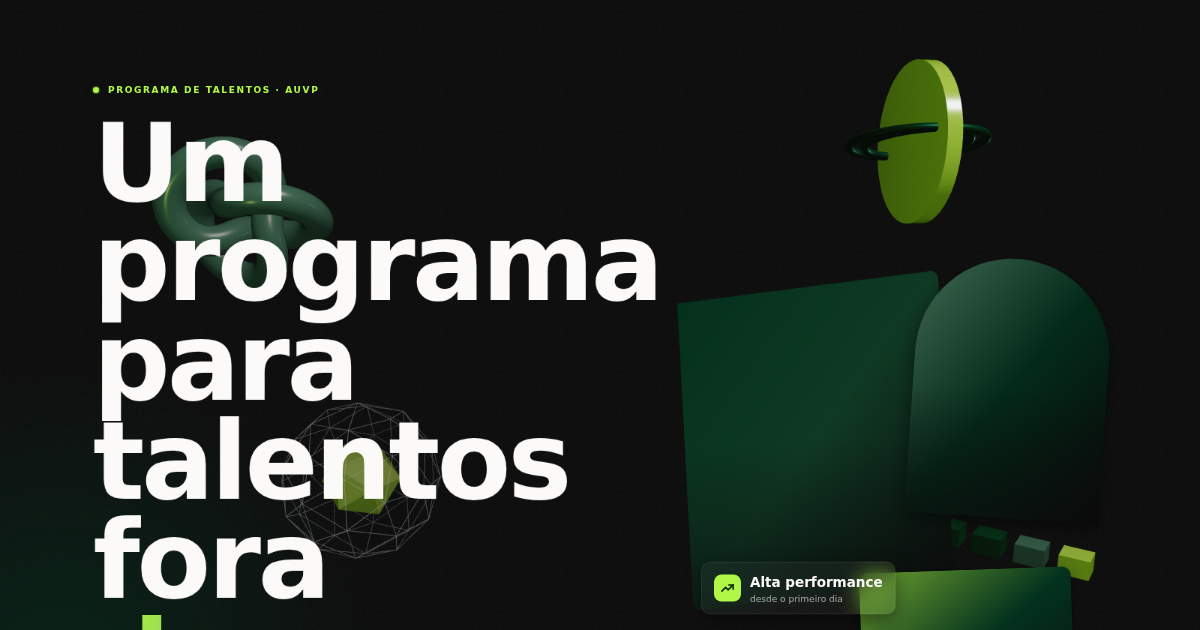
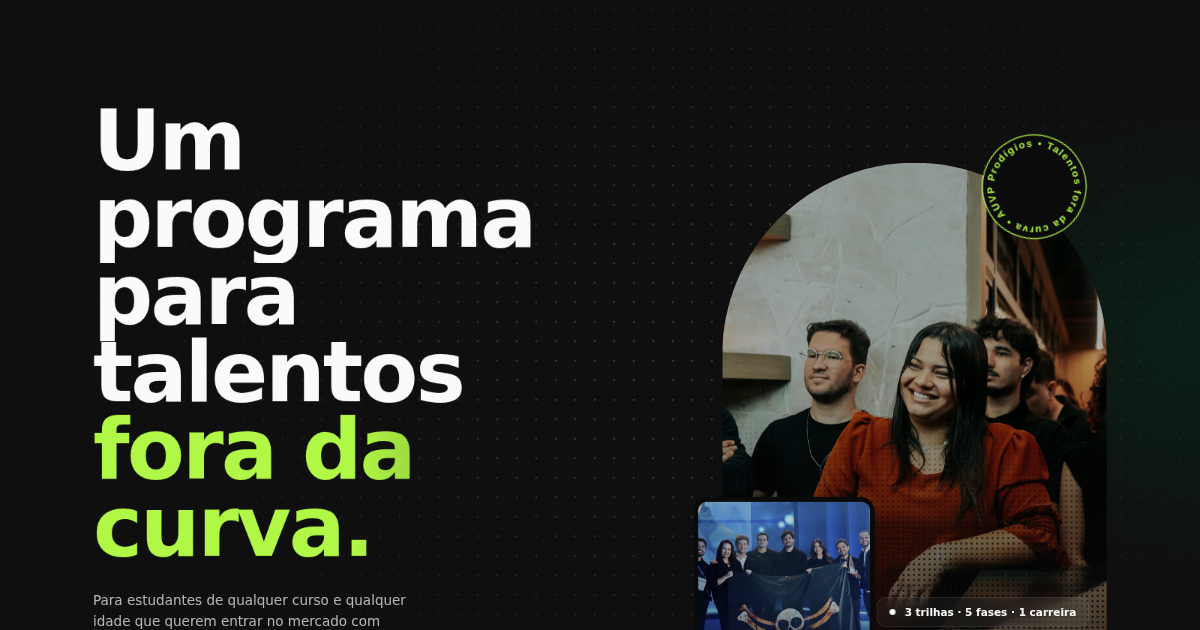
Use official AUVP photos from the etica repository
- Eight photos from ProdutosAUVP/etica converted to WebP (900–1400px,
  quality 78, EXIF stripped; ~650 KB total) in src/assets/photos/
- photos.ts imports local assets and gains a per-photo object-position
  so faces survive the crops; Photo.tsx falls back to it
- Placement: smiling colleague in the hero arch, pirate-flag team as the
  small hero photo, tattooed forearms with the AUVP symbol in Culture,
  office team / stage team / BTG stage for the three trails, raised
  trophy in the sign-up fold; the event crowd stays as a spare
- Hero badge moved below the face (mobile: above the small photo)
- Unsplash preconnect removed; OG image regenerated with the real photos
- docs/CONTEUDO.md maps each asset to its source file and fold

Claude-Session: https://claude.ai/code/session_019ytdwh35wKkSoQDiyke19Z

diff --git a/src/data/photos.ts b/src/data/photos.ts
@@ -1,68 +1,87 @@
 /**
- * Fotografia humanizada — placeholders de alta qualidade (Unsplash CDN).
- * Jovens em ambiente de foco/tecnologia. Cada entrada tem um `tone` usado
- * como fallback (gradiente da marca) caso a imagem não carregue.
+ * Fotografia oficial da AUVP — arquivos de ProdutosAUVP/etica, convertidos
+ * para WebP (largura máx. 900–1400px, qualidade 78) em src/assets/photos/.
+ * Cada entrada tem um `tone` usado como fallback (gradiente da marca) caso a
+ * imagem não carregue, e `position` para o recorte (`object-position`).
  *
- * Para trocar pelas fotos oficiais: substitua `src` por um arquivo em
- * src/assets/ (import) ou por uma URL própria. Mantenha as proporções.
+ * Para trocar uma foto: substitua o arquivo em src/assets/photos/ mantendo a
+ * proporção aproximada, ou aponte `src` para um novo import.
  */
+import heroArco from "@/assets/photos/hero-arco.webp";
+import heroBandeira from "@/assets/photos/hero-bandeira.webp";
+import culturaTatuagens from "@/assets/photos/cultura-tatuagens.webp";
+import trilhaTecnologia from "@/assets/photos/trilha-tecnologia.webp";
+import trilhaGrowth from "@/assets/photos/trilha-growth.webp";
+import trilhaNegocios from "@/assets/photos/trilha-negocios.webp";
+import inscricaoTrofeu from "@/assets/photos/inscricao-trofeu.webp";
+import eventoPlateia from "@/assets/photos/evento-plateia.webp";
+
 export type Photo = {
   id: string;
   src: string;
   alt: string;
   tone: "forest" | "mint" | "lime";
+  /** object-position do recorte; default "center" */
+  position?: string;
 };
 
-const u = (id: string, w = 1200) =>
-  `https://images.unsplash.com/${id}?auto=format&fit=crop&w=${w}&q=80`;
-
 export const photos: Record<string, Photo> = {
-  heroA: {
-    id: "heroA",
-    src: u("photo-1522202176988-66273c2fd55f", 1400),
-    alt: "Jovens colaborando em frente a laptops em um ambiente de trabalho",
-    tone: "forest",
-  },
+  /** Hero — foto-âncora em arco */
   heroB: {
     id: "heroB",
-    src: u("photo-1573164713988-8665fc963095", 900),
-    alt: "Jovem concentrada em um laptop com código na tela",
+    src: heroArco,
+    alt: "Colaboradora da AUVP sorrindo em um encontro do time",
+    tone: "forest",
+    position: "center 30%",
+  },
+  /** Hero — foto menor sobreposta */
+  heroA: {
+    id: "heroA",
+    src: heroBandeira,
+    alt: "Time da AUVP segurando a bandeira pirata no palco de um evento",
     tone: "mint",
   },
-  heroC: {
-    id: "heroC",
-    src: u("photo-1519389950473-47ba0277781c", 900),
-    alt: "Equipe reunida em torno de um computador",
-    tone: "lime",
-  },
+  /** Cultura — o símbolo tatuado nos braços do time */
   culture: {
     id: "culture",
-    src: u("photo-1552664730-d307ca884978", 1600),
-    alt: "Time discutindo ideias em um quadro branco",
+    src: culturaTatuagens,
+    alt: "Braços de colaboradores da AUVP com o símbolo da empresa tatuado, unidos ao centro",
     tone: "forest",
+    position: "center 40%",
   },
   trailsTech: {
     id: "trailsTech",
-    src: u("photo-1531482615713-2afd69097998", 900),
-    alt: "Jovem desenvolvedor trabalhando com múltiplas telas",
+    src: trilhaTecnologia,
+    alt: "Time da AUVP reunido no escritório olhando para a câmera",
     tone: "mint",
+    position: "center 35%",
   },
   trailsGrowth: {
     id: "trailsGrowth",
-    src: u("photo-1556761175-b413da4baf72", 900),
-    alt: "Time de marketing analisando métricas em uma reunião",
+    src: trilhaGrowth,
+    alt: "Time da AUVP no palco de um evento, com os dedos em riste",
     tone: "lime",
   },
   trailsBiz: {
     id: "trailsBiz",
-    src: u("photo-1517245386807-bb43f82c33c4", 900),
-    alt: "Jovens profissionais conversando em um escritório moderno",
+    src: trilhaNegocios,
+    alt: "Palco de premiação com o logo da AUVP Capital e o ranking Best Performer",
     tone: "forest",
+    position: "center 40%",
   },
+  /** Inscrição — troféu erguido */
   ctaSide: {
     id: "ctaSide",
-    src: u("photo-1521737711867-e3b97375f902", 1000),
-    alt: "Grupo de jovens em uma reunião de trabalho descontraída",
+    src: inscricaoTrofeu,
+    alt: "Integrante da AUVP erguendo um troféu no palco",
     tone: "mint",
+    position: "center 20%",
+  },
+  /** Reserva — plateia em evento interno (não usada no momento) */
+  evento: {
+    id: "evento",
+    src: eventoPlateia,
+    alt: "Plateia de colaboradores em um evento interno da AUVP",
+    tone: "forest",
   },
 };

diff --git a/src/components/Photo.tsx b/src/components/Photo.tsx
@@ -19,10 +19,10 @@ const TONES: Record<PhotoData["tone"], string> = {
 };
 
 /**
- * Fotografia humanizada com fallback: se a imagem não carregar, mostra um
+ * Fotografia oficial da AUVP com fallback: se a imagem não carregar, mostra um
  * gradiente da marca no mesmo enquadramento — a página nunca "quebra".
  */
-export function Photo({ photo, className = "", imgClassName = "", overlay = 0.2, loading = "lazy", position = "center" }: Props) {
+export function Photo({ photo, className = "", imgClassName = "", overlay = 0.2, loading = "lazy", position }: Props) {
   const [failed, setFailed] = useState(false);
   const [loaded, setLoaded] = useState(false);
 
@@ -42,7 +42,7 @@ export function Photo({ photo, className = "", imgClassName = "", overlay = 0.2,
           decoding="async"
           onLoad={() => setLoaded(true)}
           onError={() => setFailed(true)}
-          style={{ objectPosition: position }}
+          style={{ objectPosition: position ?? photo.position ?? "center" }}
           className={`absolute inset-0 h-full w-full object-cover saturate-[0.85] contrast-[1.03] transition-opacity duration-600 ${
             loaded ? "opacity-100" : "opacity-0"
           } ${imgClassName}`}

diff --git a/src/components/Hero.tsx b/src/components/Hero.tsx
@@ -8,7 +8,7 @@ import { Button, ArrowIcon } from "./Button";
 type Props = { ready: boolean; reducedMotion: boolean };
 
 /** Adesivos: posição na composição e inclinação de cada um (index = hero.facts). */
-const STICKER_POS = ["left-0 top-[12%] sm:-left-2", "-right-2 top-[30%]", "right-[4%] bottom-[-3%]"];
+const STICKER_POS = ["left-0 top-[12%] sm:-left-2", "-right-2 top-[30%]", "left-[46%] bottom-[-3%] sm:left-[48%]"];
 const STICKER_TILT = [-8, 6, -4];
 
 /**
@@ -163,7 +163,7 @@ export function Hero({ ready, reducedMotion }: Props) {
             </svg>
           </div>
 
-          <div className="glass absolute right-4 top-[46%] flex items-center gap-3 rounded-lg px-4 py-3 sm:right-6">
+          <div className="glass absolute bottom-[42%] right-4 flex items-center gap-3 rounded-lg px-4 py-3 sm:right-6 lg:bottom-[9%]">
             <span className="relative flex h-2 w-2">
               <span className="absolute inline-flex h-full w-full animate-pulse-ring rounded-full bg-paper" />
               <span className="relative inline-flex h-2 w-2 rounded-full bg-paper" />

diff --git a/index.html b/index.html
@@ -20,7 +20,6 @@
       href="https://fonts.googleapis.com/css2?family=Anek+Latin:wght@400;500;600;700;800&family=Roboto:wght@300;400;500;700&family=Sora:wght@600;700&display=swap"
       rel="stylesheet"
     />
-    <link rel="preconnect" href="https://images.unsplash.com" />
   </head>
   <body>
     <div id="root"></div>

diff --git a/docs/CONTEUDO.md b/docs/CONTEUDO.md
@@ -10,32 +10,45 @@ Para alterar um texto, edite o objeto correspondente (`hero`, `process`, `trails
 
 A página não usa *eyebrows* (a etiqueta pequena em caixa alta acima dos títulos). Cada dobra abre direto no título display; frases do briefing que eram etiquetas viraram títulos de verdade (`intro.title`, `cta.formTitle`). A classe `.label` continua existindo para etiquetas funcionais (carimbo "Opcional", "Trilha 1", rótulos de formulário).
 
-## Fotografia humanizada
+## Fotografia
 
-`src/data/photos.ts` mapeia cada foto usada na página. Hoje são **placeholders de alta qualidade** do Unsplash (jovens em ambiente de foco/tecnologia) servidos pelo CDN deles.
+`src/data/photos.ts` mapeia cada foto usada na página. São **fotos oficiais da AUVP**, vindas do repositório [ProdutosAUVP/etica](https://github.com/ProdutosAUVP/etica) (código de ética) e convertidas para WebP em `src/assets/photos/` (largura máxima 900–1400px, qualidade 78, EXIF removido; ~650 KB no total).
+
+| Arquivo | Origem em `etica` | Onde aparece |
+|---|---|---|
+| `hero-arco.webp` | `imagem que acompanha item 5.1.jpg` | Hero, foto-âncora em arco |
+| `hero-bandeira.webp` | `item 5 - imagem diversidade.webp` (recorte quadrado) | Hero, foto menor sobreposta |
+| `cultura-tatuagens.webp` | `item 3 - imagem diversidade.jpg` | Cultura |
+| `trilha-tecnologia.webp` | `imagem que acompanha item 4.jpg` | Trilha 1 — Tecnologia |
+| `trilha-growth.webp` | `item 4 - imagem diversidade.webp` | Trilha 2 — Growth & Marketing |
+| `trilha-negocios.webp` | `item 2 - imagem ultrawide crescimento.webp` | Trilha 3 — Negócios & Finanças |
+| `inscricao-trofeu.webp` | `item 1 - imagem vertical quem somos.webp` | Inscrição |
+| `evento-plateia.webp` | `imagem que acompanha itens 10, 11 e 12..jpg` | reserva (não usada) |
+
+Para regerar a partir dos originais, o script usado está descrito abaixo (Node + `sharp`, fora do projeto):
+
+```js
+sharp(origem).rotate().resize({ width, withoutEnlargement: true }).webp({ quality: 78 }).toFile(destino)
+```
 
 Cada entrada tem:
 
 | Campo | Uso |
 |---|---|
-| `src` | URL (ou import de `src/assets/`) |
+| `src` | import de `src/assets/photos/` |
 | `alt` | texto alternativo — obrigatório |
 | `tone` | `forest` \| `mint` \| `lime` — gradiente de fallback se a imagem não carregar |
+| `position` | `object-position` do recorte (ex.: `center 30%` para preservar rostos) |
 
 O componente `<Photo>` aplica: recorte (`clip-slant`, `clip-arch`, `clip-blob` ou radius), sobreposição com a cor da marca (`overlay`, 0–1), degradê inferior e fade-in no `onLoad`. Se o `src` falhar, o gradiente do `tone` fica no lugar e a composição não quebra.
 
-### Trocando pelas fotos oficiais
+### Trocando uma foto
 
-1. Coloque os arquivos em `src/assets/photos/` (WebP, largura máxima ~1600px para o Hero/Cultura e ~900px para cards).
-2. Importe e substitua o `src` em `photos.ts`:
+1. Gere o WebP em `src/assets/photos/` (largura máxima ~1400px; retrato para Hero, Cultura e Inscrição, paisagem para as Trilhas).
+2. Importe e aponte o `src` em `photos.ts`, ajustando `alt` e `position`.
+3. Os componentes recortam por `object-fit: cover` nas proporções `aspect-[4/5]` (Hero, Cultura, Inscrição), `aspect-square` (foto menor do Hero) e `aspect-[4/3]` (Trilhas).
 
-```ts
-import heroA from "@/assets/photos/hero-a.webp";
-// ...
-heroA: { id: "heroA", src: heroA, alt: "…", tone: "forest" },
-```
-
-3. Mantenha as proporções usadas nos componentes (`aspect-[4/5]`, `aspect-[3/4]`, `aspect-[5/4]`, `aspect-[4/3]`).
+Os cinco SVGs de valores que também vivem em `etica` (Manda a Real, Divide o Rum, Sangue nos Olhos, Impiedoso, Imediato) não são usados aqui: os pilares da dobra Cultura seguem o texto do briefing.
 
 ## Imagem de compartilhamento (OG)
 

diff --git a/README.md b/README.md
@@ -87,7 +87,7 @@ Copie `.env.example` para `.env` (opcional — tudo tem padrão):
 - Padrões únicos de espaçamento (`--section-y`, `--section-gap`, `--stack`), curvatura (12px do DS + arco como forma-assinatura) e tratamento de foto (`<Photo>`), documentados em `docs/DESIGN-SYSTEM.md`.
 - Mobile-first: classes base para 360px, `sm`/`lg` só adicionam colunas. Título do Hero em 3 linhas curtas que cabem em 360px (`text-display-xl` = `clamp(2.75rem, 8.4vw, 8.5rem)`).
 - Cor pontual: lime nos CTAs, na última linha do título do Hero, no adesivo circular, na dobra da Intro e no check do formulário (ver `docs/DESIGN-SYSTEM.md`).
-- Fotos com `loading="lazy"` (exceto o Hero) e fallback em gradiente da marca se a imagem não carregar.
+- Fotos oficiais da AUVP (repositório `etica`) em WebP local, `loading="lazy"` (exceto o Hero) e fallback em gradiente da marca se a imagem não carregar.
 - Navegação por teclado com `:focus-visible` em lime; formulário com labels e `aria-live` no loader.
 - Contraste seguindo os tokens `*-emphasis` do DS nas dobras claras.
 
